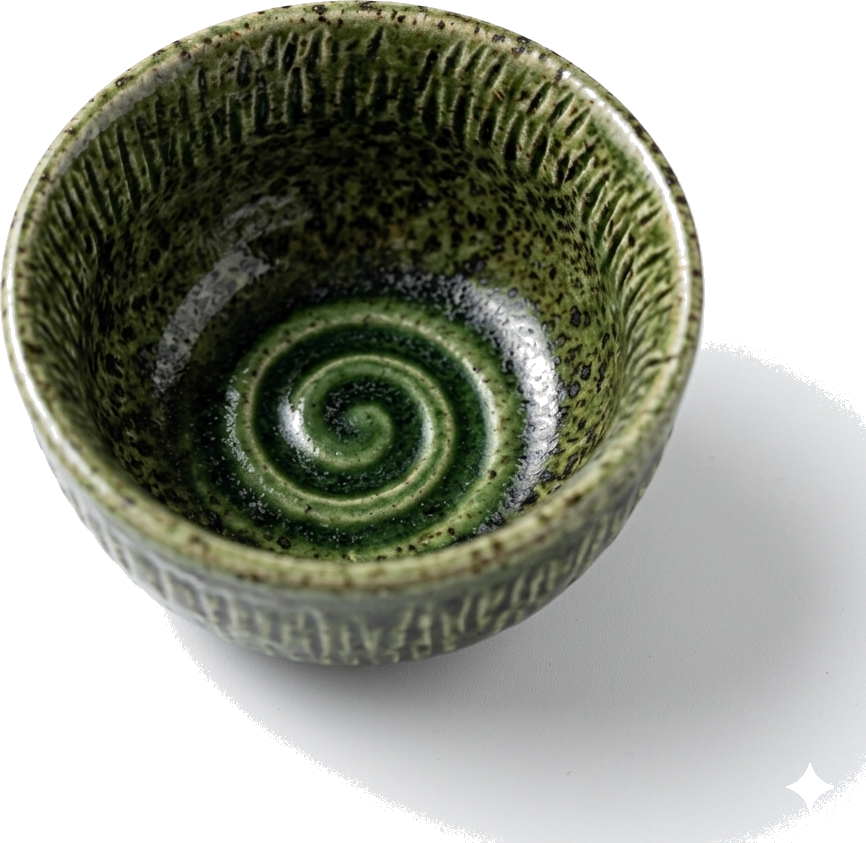
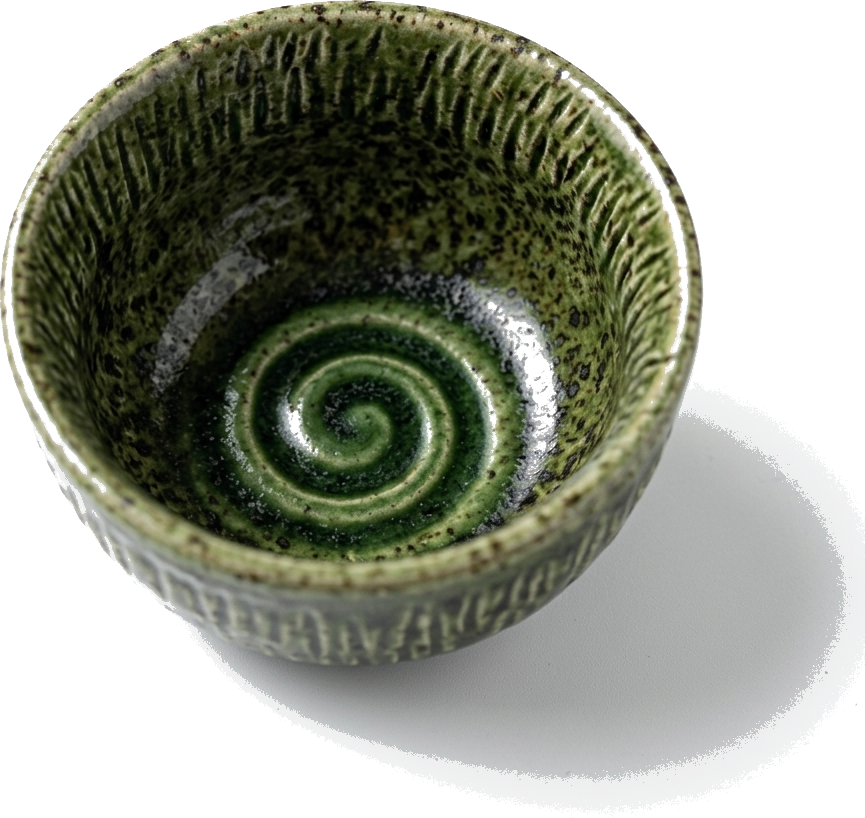
fix: Clean cup image backgrounds, use img tags for consistent sizing

diff --git a/kikuhai.html b/kikuhai.html
@@ -104,27 +104,15 @@
   .cup-inner{position:relative;width:100%;height:100%;transition:transform 0.6s ease;transform-style:preserve-3d;}
   .cup-slot.flipped .cup-inner{transform:rotateX(180deg);}
   .cup-slot.disabled{pointer-events:none;cursor:default;}
-  .cup-front,.cup-back{position:absolute;width:100%;height:100%;backface-visibility:hidden;border-radius:50%;display:flex;align-items:center;justify-content:center;}
-  /* Upside-down cup: real photo */
-  .cup-front{
-    background:url('Cup_down.png') center/contain no-repeat;
-    border-radius:0;border:none;
-    filter:drop-shadow(0 4px 8px rgba(0,0,0,0.4));
-  }
-  /* Flipped cup: empty, real photo */
-  .cup-back{
-    transform:rotateX(180deg);
-    background:url('Cup_up.png') center/contain no-repeat;
-    border-radius:0;border:none;
-    filter:drop-shadow(0 4px 8px rgba(0,0,0,0.3));
-  }
-  /* Chrysanthemum revealed: flower cup photo */
-  .cup-slot.chrysanthemum .cup-back{
-    background:url('Flower_cup.png') center/contain no-repeat;
-    border-radius:0;border:none;
-    filter:drop-shadow(0 0 16px rgba(212,168,67,0.6));
-    animation:chrysGlow 1.5s infinite;
-  }
+  .cup-front,.cup-back{position:absolute;width:100%;height:100%;backface-visibility:hidden;display:flex;align-items:center;justify-content:center;}
+  .cup-front img,.cup-back img{width:100%;height:100%;object-fit:contain;}
+  /* Upside-down cup */
+  .cup-front{filter:drop-shadow(0 4px 8px rgba(0,0,0,0.4));}
+  /* Flipped cup: empty */
+  .cup-back{transform:rotateX(180deg);filter:drop-shadow(0 4px 8px rgba(0,0,0,0.3));}
+  .cup-slot.flipped{z-index:5;}
+  /* Chrysanthemum revealed */
+  .cup-slot.chrysanthemum .cup-back{filter:drop-shadow(0 0 16px rgba(212,168,67,0.6));animation:chrysGlow 1.5s infinite;}
   .cup-slot.chrysanthemum .cup-back .chrys-emoji{display:none;}
 
   /* === Safe Overlay === */
@@ -822,7 +810,8 @@ function renderCups(){
     const slot=document.createElement('div');
     slot.className='cup-slot'+(cup.flipped?' flipped':'')+(cup.flipped&&cup.hasChrysanthemum?' chrysanthemum':'');
     if(cup.flipped)slot.classList.add('disabled');
-    slot.innerHTML=`<div class="cup-inner"><div class="cup-front"></div><div class="cup-back">${cup.flipped?(cup.hasChrysanthemum?'<span class="chrys-emoji">🌼</span>':''):''}${!cup.flipped&&!cup.hasChrysanthemum?'':''}${!cup.flipped&&cup.hasChrysanthemum?'':''}</div></div>`;
+    const backImg=cup.flipped&&cup.hasChrysanthemum?'Flower_cup.png':'Cup_up.png';
+    slot.innerHTML=`<div class="cup-inner"><div class="cup-front"><img src="Cup_down.png" alt=""></div><div class="cup-back"><img src="${backImg}" alt="">${cup.flipped&&cup.hasChrysanthemum?'<span class="chrys-emoji">🌼</span>':''}</div></div>`;
     if(!cup.flipped){
       slot.addEventListener('click',()=>flipCup(i));
       slot.addEventListener('touchstart',(e)=>{e.preventDefault();flipCup(i);},{passive:false});
